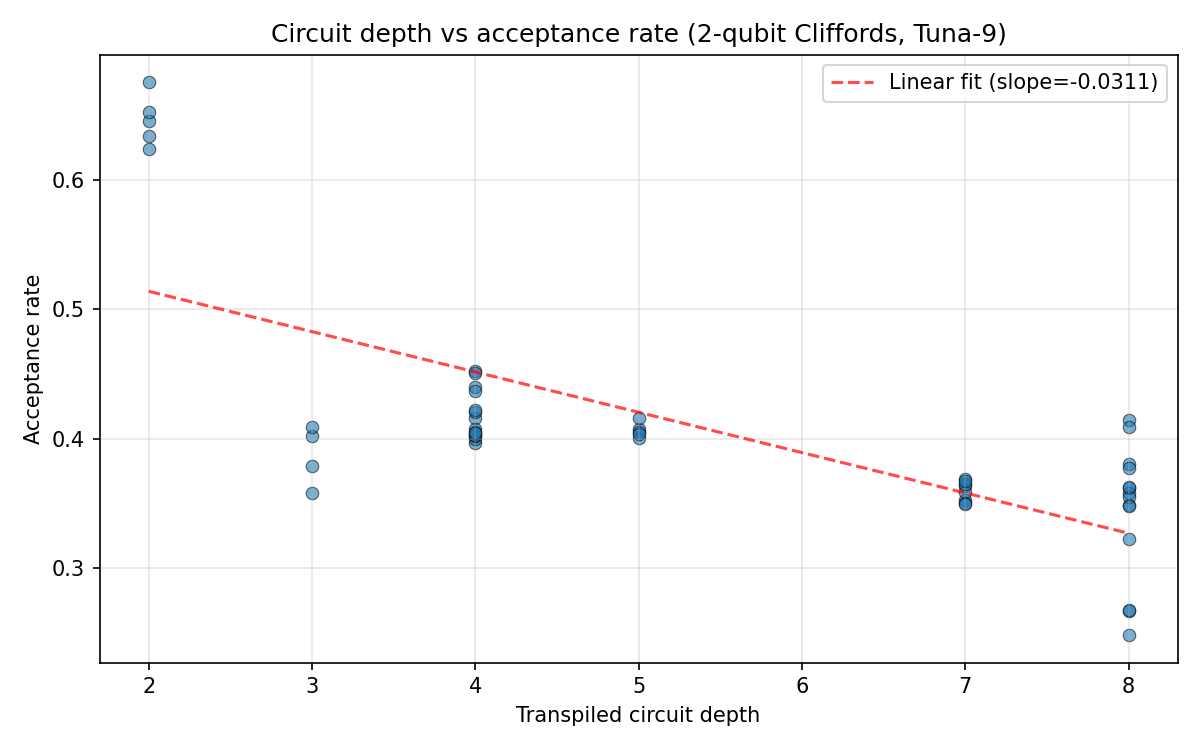
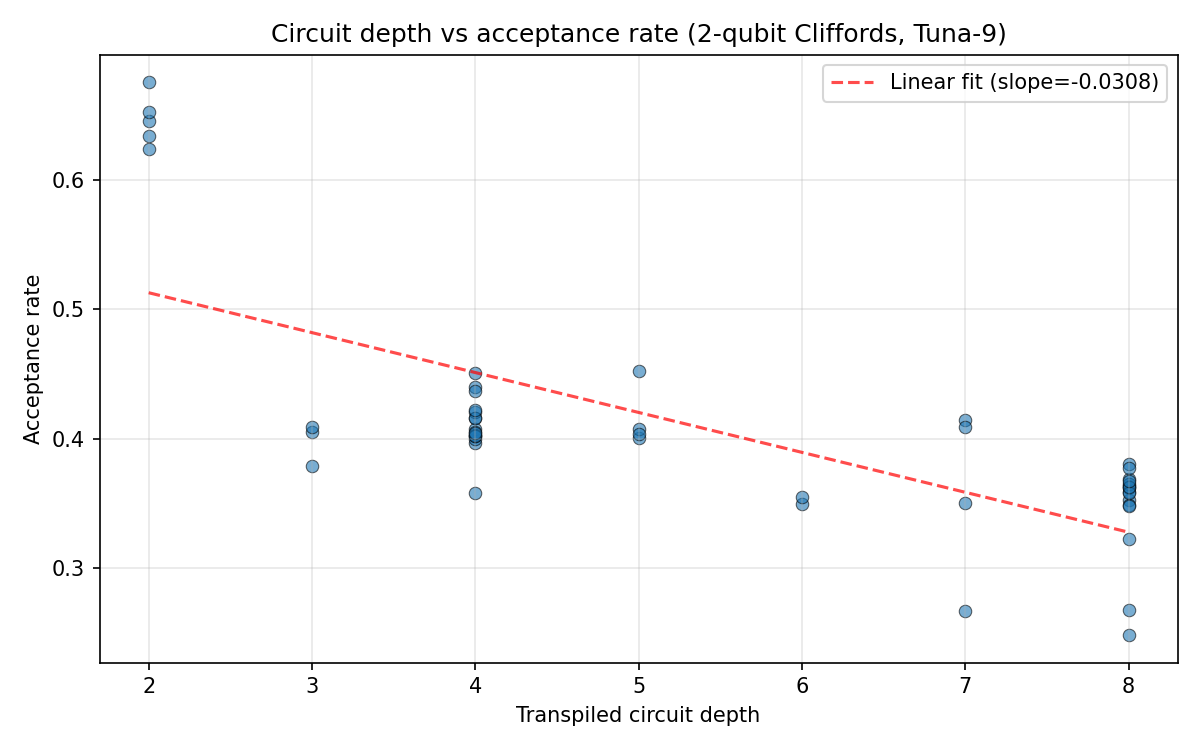
make circuit depth vs noise properly decompile

diff --git a/scripts/05_circuit_depth_vs_noise.py b/scripts/05_circuit_depth_vs_noise.py
@@ -3,7 +3,9 @@
 """Circuit depth vs acceptance rate for random 2-qubit Cliffords on Tuna-9.
 
 Generates 50 random 2-qubit Cliffords, runs the batched tester on each via
-Tuna-9, and plots transpiled circuit depth against acceptance rate.
+Tuna-9, and plots transpiled circuit depth against acceptance rate. Depths
+are measured after transpiling to Tuna-9's native basis (rx, ry, rz, cz)
+with optimization_level=3.
 """
 
 from __future__ import annotations
@@ -14,14 +16,22 @@ from pathlib import Path
 
 import matplotlib.pyplot as plt
 import numpy as np
-from qiskit import QuantumCircuit
-from qiskit.circuit.library import UnitaryGate
 
-from cliff_lib.backends import resolve_backend
-from cliff_lib.clifford_tester.testers import clifford_tester_batched
-from cliff_lib.state.outputs import BatchedRawResults
-from cliff_lib.state.utils import atomic_write
-from cliff_lib.unitaries.generators.stim import stim_random_clifford_gate
+# Workaround: the installed compute_api_client BackendStatus enum is missing
+# 'benchmarking', which the QI server currently returns for Tuna-9 — alias it
+# to IDLE so QIProvider() construction inside resolve_backend doesn't fail.
+from compute_api_client.models import backend_status as _bs
+
+_bs.BackendStatus._value2member_map_.setdefault("benchmarking", _bs.BackendStatus.IDLE)
+
+from qiskit import QuantumCircuit, transpile  # noqa: E402
+from qiskit.circuit.library import UnitaryGate  # noqa: E402
+
+from cliff_lib.backends import resolve_backend  # noqa: E402
+from cliff_lib.clifford_tester.testers import clifford_tester_batched  # noqa: E402
+from cliff_lib.state.outputs import BatchedRawResults  # noqa: E402
+from cliff_lib.state.utils import atomic_write  # noqa: E402
+from cliff_lib.unitaries.generators.stim import stim_random_clifford_gate  # noqa: E402
 
 # -- Configuration -----------------------------------------------------------
 
@@ -32,6 +42,21 @@ SHOTS = 1000
 RESULTS_DIR = Path("results/depth_vs_acceptance")
 STATE_FILE = RESULTS_DIR / "state.json"
 PLOT_FILE = RESULTS_DIR / "depth_vs_acceptance.png"
+
+# Tuna-9 native basis + qubit priorities (kept in sync with cliff_lib.backends).
+_TUNA_BASIS_GATES = ["rx", "ry", "rz", "cz"]
+_TUNA_QUBIT_PRIORITIES = [4, 1, 2, 6, 7, 0, 3, 5, 8]
+
+
+def _transpile_for_depth(qc: QuantumCircuit, backend: object) -> QuantumCircuit:
+    """Transpile to Tuna-9's native basis at optimization_level=3 for depth metrics."""
+    return transpile(
+        qc,
+        backend=backend,
+        basis_gates=_TUNA_BASIS_GATES,
+        initial_layout=_TUNA_QUBIT_PRIORITIES[: qc.num_qubits],
+        optimization_level=3,
+    )
 
 
 # -- State helpers -----------------------------------------------------------
@@ -77,7 +102,7 @@ def collect() -> None:
 
             qc = QuantumCircuit(N_QUBITS)
             qc.append(gate, list(range(N_QUBITS)))
-            transpiled = transpile_fn(qc)
+            transpiled = _transpile_for_depth(qc, backend)
 
             _state[str(i)] = {
                 "matrix": matrix,